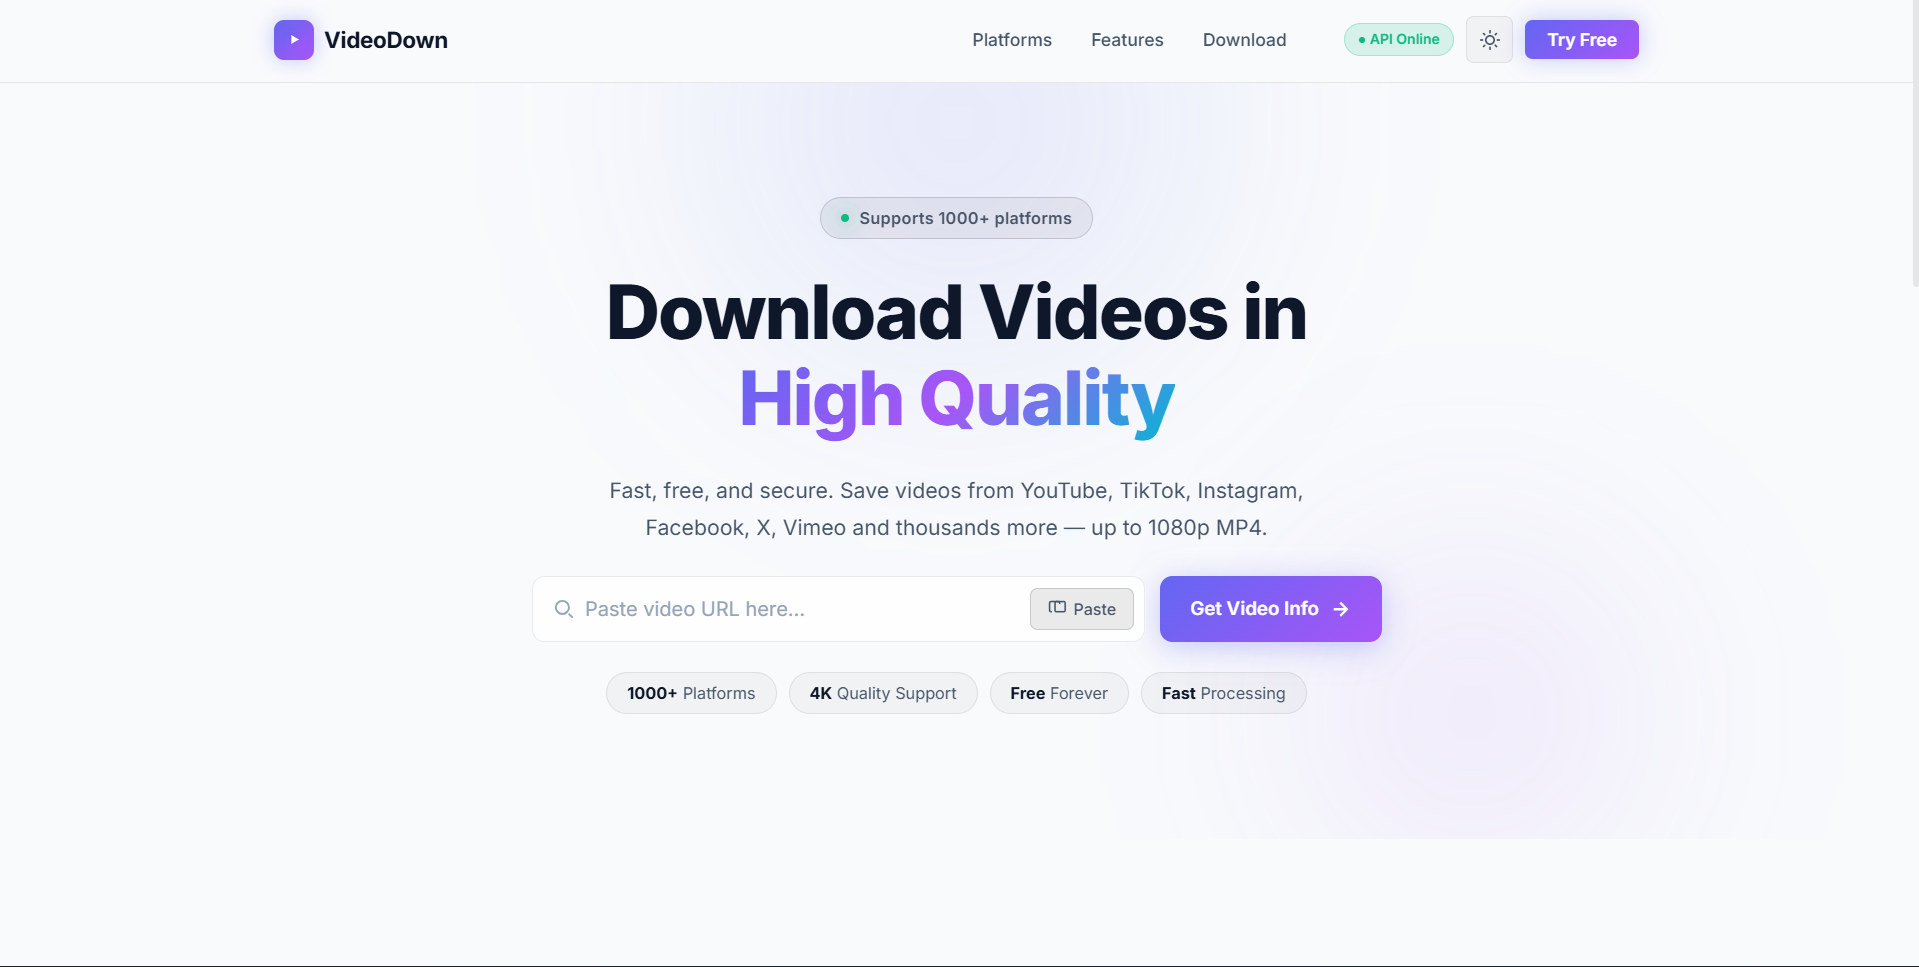
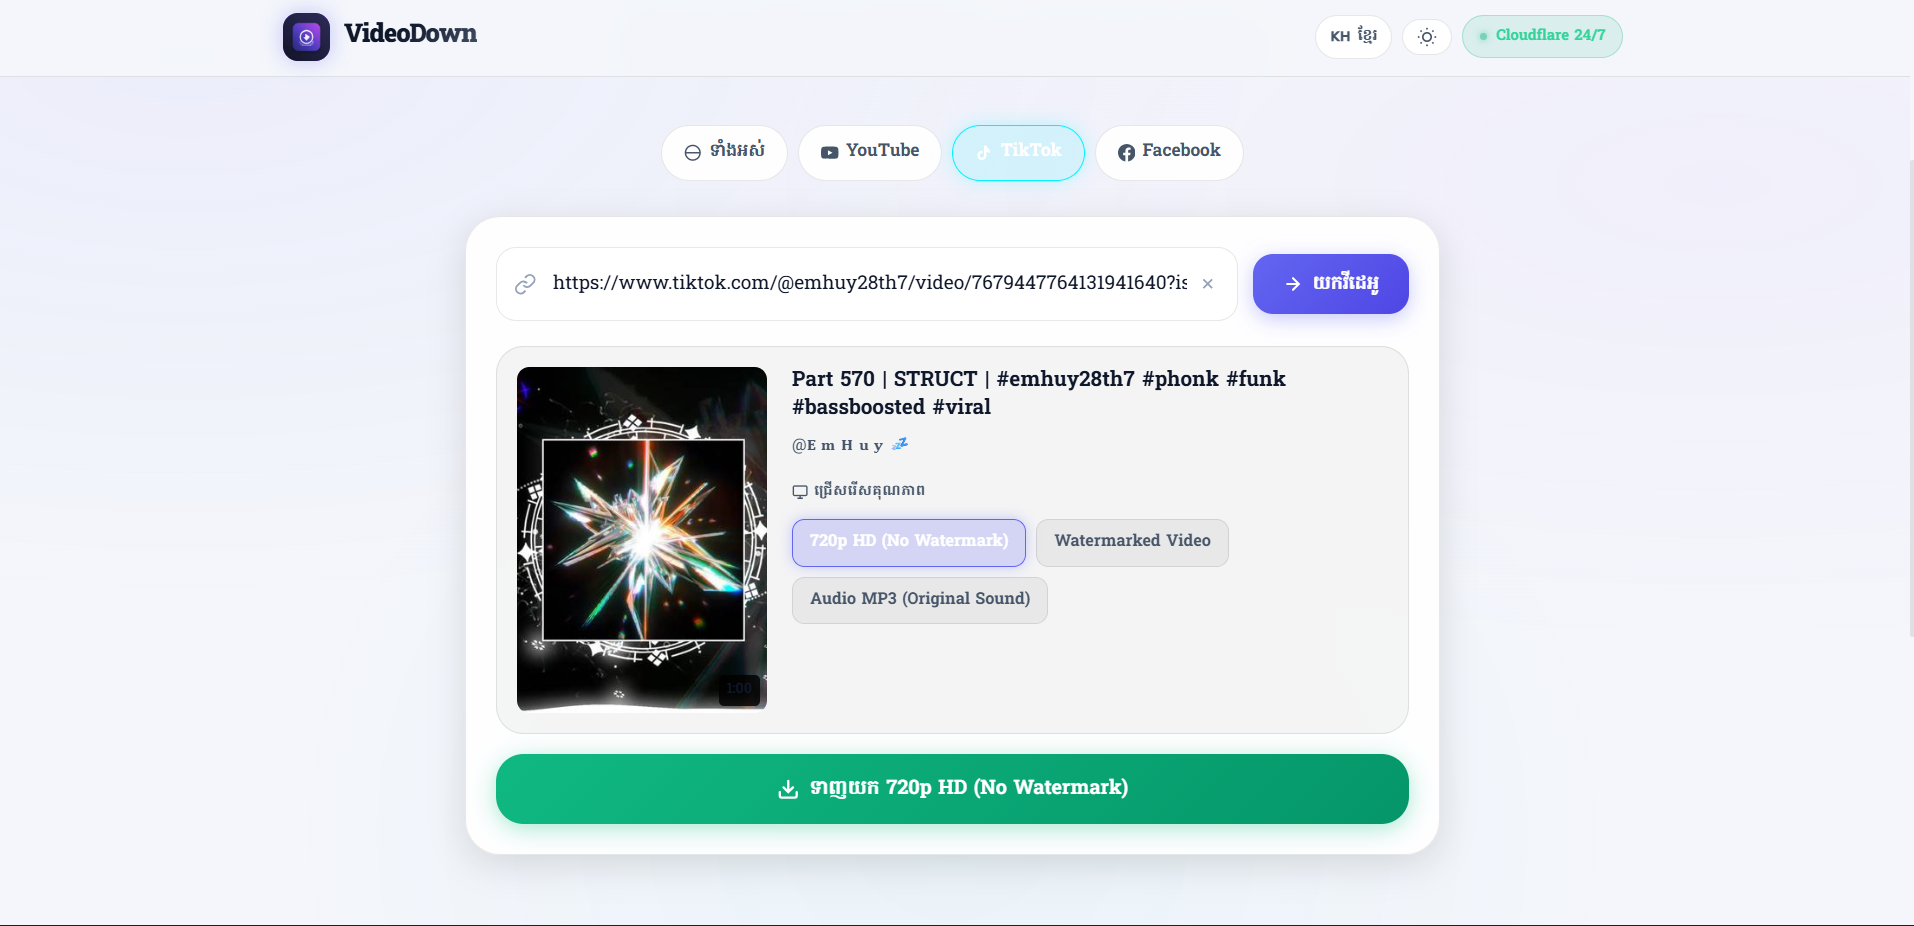
add vdo

diff --git a/src/constants/projects.ts b/src/constants/projects.ts
@@ -631,80 +631,81 @@ export const projects: Project[] = [
   {
     id: 'video-downloader',
     slug: 'video-downloader',
-    title: 'Multi-Platform Video Downloader',
+    title: 'Cloudflare Video Downloader',
     shortDescription:
-      'A high-performance full-stack media extraction and video downloader web app supporting YouTube, TikTok, Facebook, and Instagram.',
+      'A serverless full-stack media extraction and video downloader web app powered by Cloudflare Workers & Cloudflare Pages, supporting YouTube, TikTok, and Facebook.',
     longDescription:
-      'Multi-Platform Video Downloader is a full-stack media extraction application designed for effortless video and audio processing across multiple platforms including YouTube, TikTok, Facebook, and Instagram. Built with a clean, responsive HTML, CSS, and JavaScript frontend powered by a Python backend extraction engine, it delivers multi-format downloads (1080p, 720p, 480p, MP3), instant media metadata previews, and direct streaming links.',
+      'Cloudflare Video Downloader is a high-speed, serverless media extraction web application designed for seamless video and audio downloads from YouTube, TikTok, and Facebook. Built with a responsive HTML5, CSS3, and JavaScript frontend hosted on Cloudflare Pages and powered by a serverless Cloudflare Workers API backend, it delivers instant media metadata extraction, multi-resolution options (1080p, 720p, 480p, 360p, MP3 audio), and high-speed streaming downloads without requiring dedicated server infrastructure.',
     category: 'Web Application',
     status: 'completed',
     image: '/images/vdo.png',
-    gradient: 'from-violet-600 via-purple-500 to-indigo-400',
-    accentColor: '#8B5CF6',
+    gradient: 'from-orange-500 via-amber-500 to-yellow-400',
+    accentColor: '#F38020',
     technologies: [
-      'Python',
+      'JavaScript (ES6+)',
+      'Cloudflare Workers',
+      'Cloudflare Pages',
       'HTML5',
       'CSS3',
-      'JavaScript',
-      'Google Cloud',
       'RESTful API'
     ],
     features: [
-      'Multi-Platform Video & Audio Extraction (YouTube, TikTok, Facebook, Instagram)',
-      'Multiple Resolution & Format Options (1080p, 720p, 480p, MP3)',
-      'Real-Time Media Metadata & Thumbnail Preview',
-      'High-Speed Media Streaming & Direct Download URLs',
-      'Clean Modern UI & Fully Responsive Design',
-      'RESTful API Communication between Frontend and Python Backend'
+      'Multi-Platform Video & Audio Extraction (YouTube, TikTok, Facebook)',
+      '100% Serverless Edge Architecture on Cloudflare Global Network',
+      'Multi-Resolution & Format Options (1080p Full HD, 720p HD, 480p, 360p, MP3 Audio)',
+      'Instant Media Metadata & Thumbnail Preview',
+      'Fast Streaming & Direct Download URLs',
+      'Cross-Origin Resource Sharing (CORS) Enabled API',
+      'Clean Modern UI with Full Mobile & Desktop Responsiveness'
     ],
     architecture: {
-      frontend: 'HTML5 / CSS3 / Vanilla JavaScript',
-      backend: 'Python Backend Extraction Service',
-      api: 'RESTful API',
-      database: 'Stateless / In-Memory Cache',
-      deployment: 'Google Cloud Platform (GCP)'
+      frontend: 'HTML5 / CSS3 / Vanilla JavaScript (Cloudflare Pages)',
+      backend: 'Serverless Edge API (Cloudflare Workers)',
+      api: 'RESTful API / JSON Endpoints',
+      database: 'Stateless / Edge In-Memory Processing',
+      deployment: 'Cloudflare Global Edge Network'
     },
     timeline: [
       {
-        phase: 'Architecture & Analysis',
+        phase: 'Architecture & Protocol Analysis',
         duration: '3 Days',
-        description: 'Analyzed streaming protocols, media extraction methods, and REST API request workflows for social media video platforms.'
+        description: 'Analyzed streaming protocols, media extraction APIs, and CORS handling for social video platforms (YouTube, TikTok, Facebook).'
       },
       {
-        phase: 'Python Backend Development',
-        duration: '1.5 Weeks',
-        description: 'Developed Python backend endpoints to parse video URLs, fetch media streams, and generate direct download links.'
-      },
-      {
-        phase: 'Frontend UI Development',
+        phase: 'Serverless Worker Development',
         duration: '1 Week',
-        description: 'Built clean, responsive web interface using HTML5, CSS3, and JavaScript with interactive input handling and format cards.'
+        description: 'Developed Cloudflare Worker endpoints with custom extraction modules for parsing media metadata and direct video stream links.'
+      },
+      {
+        phase: 'Frontend UI & Integration',
+        duration: '4 Days',
+        description: 'Crafted responsive, ad-free UI using HTML5, CSS3, and JavaScript with instant format selection cards and preview thumbnails.'
       },
       {
         phase: 'Testing & Optimization',
-        duration: '4 Days',
-        description: 'Connected JavaScript frontend with Python backend API and optimized video extraction speed.'
+        duration: '3 Days',
+        description: 'Tested edge latency, format fallbacks, and mobile device compatibility across different network providers.'
       },
       {
-        phase: 'Deployment',
-        duration: '2 Days',
-        description: 'Deployed Python backend service and hosted client infrastructure on Google Cloud Platform.'
+        phase: 'Global Deployment',
+        duration: '1 Day',
+        description: 'Deployed serverless backend to Cloudflare Workers and frontend to Cloudflare Pages for 24/7 global availability.'
       }
     ],
     challenges: [
       {
-        problem: 'Handling rate limiting and dynamic video URL changes across different media platforms.',
+        problem: 'Executing media extraction within serverless environment constraints without heavy Python dependencies.',
         solution:
-          'Structured resilient Python backend extraction routines with error handling, format fallback logic, and stream caching.',
+          'Built lightweight JavaScript extractors and integrated reliable public extraction APIs directly inside Cloudflare Workers.',
         lesson:
-          'Decoupling the frontend interface from the Python extraction engine ensures flexibility when updating platform parsers.'
+          'Leveraging edge computing enables fast response times and zero server maintenance overhead.'
       },
       {
-        problem: 'Providing instant visual feedback and media metadata preview before downloading large files.',
+        problem: 'Handling cross-origin requests (CORS) and mobile network restrictions across different ISPs.',
         solution:
-          'Implemented asynchronous JavaScript fetch queries to retrieve lightweight preview metadata before requesting full download streams.',
+          'Configured full CORS preflight headers and standardized response formats on Cloudflare Workers for reliable client connections.',
         lesson:
-          'Asynchronous metadata fetching provides a smooth user experience without blocking browser interactions.'
+          'Proper CORS architecture and edge deployment ensure universal accessibility across mobile data and WiFi networks.'
       }
     ],
     teamSize: 1,
@@ -713,31 +714,29 @@ export const projects: Project[] = [
     isResponsive: true,
     hasDarkMode: true,
     github: {
-      repoName: 'video-downloader-Frontend',
-      repoDescription: 'Multi-platform video and audio downloader built with Python, HTML, CSS, and JavaScript.',
+      repoName: 'vdo-download-cloudflare',
+      repoDescription: 'Serverless multi-platform video and audio downloader powered by Cloudflare Workers & Cloudflare Pages.',
       stars: 0,
-      language: 'Python / JavaScript',
+      language: 'JavaScript',
       lastUpdated: '2026',
-      url: 'https://github.com/samet167/video-downloader-Frontend'
+      url: 'https://github.com/samet167/vdo-download-cloudflare'
     },
-    frontendUrl: 'https://github.com/samet167/video-downloader-Frontend',
-    backendUrl: 'https://github.com/samet167/video-downloader-backend',
-    viewUrl: 'https://vacancies-listed-for-pcs.trycloudflare.com/',
+    viewUrl: 'https://vdo-download.pages.dev/',
     overview: {
       introduction:
-        'Multi-Platform Video Downloader is a modern web tool built to extract and download high-definition videos and audio from popular social media platforms.',
+        'Cloudflare Video Downloader is a modern, serverless web tool engineered to extract and download high-definition videos and MP3 audio from YouTube, TikTok, and Facebook.',
       problem:
-        'Many online video downloaders are cluttered with intrusive ads, slow speeds, and limited platform support.',
+        'Traditional video downloader sites are often plagued by intrusive pop-up ads, slow backend processing, and frequent server downtimes.',
       solution:
-        'Created a clean, ad-free, high-performance web downloader utilizing a Python backend engine and responsive HTML/CSS/JavaScript frontend.',
+        'Developed a clean, ad-free, 100% serverless solution leveraging Cloudflare Workers and Cloudflare Pages for lightning-fast global extraction.',
       goal:
-        'Deliver a fast, responsive, and user-friendly media extraction tool while demonstrating core full-stack web development skills in Python and JavaScript.',
+        'Provide a fast, reliable, and user-friendly video downloader running 24/7 on edge infrastructure with zero server maintenance.',
       keyFeatures: [
-        'Multi-Platform Video Support',
-        'HD Quality & Audio MP3 Options',
-        'Direct Download Links',
+        'Multi-Platform Video Support (YouTube, TikTok, Facebook)',
+        'HD Video (1080p, 720p) & MP3 Audio Options',
+        'Direct High-Speed Download Links',
         'Instant Thumbnail & Title Preview',
-        'Mobile & Desktop Optimized UI'
+        '100% Serverless Edge Performance & Mobile Optimized'
       ]
     },
     gallery: [
